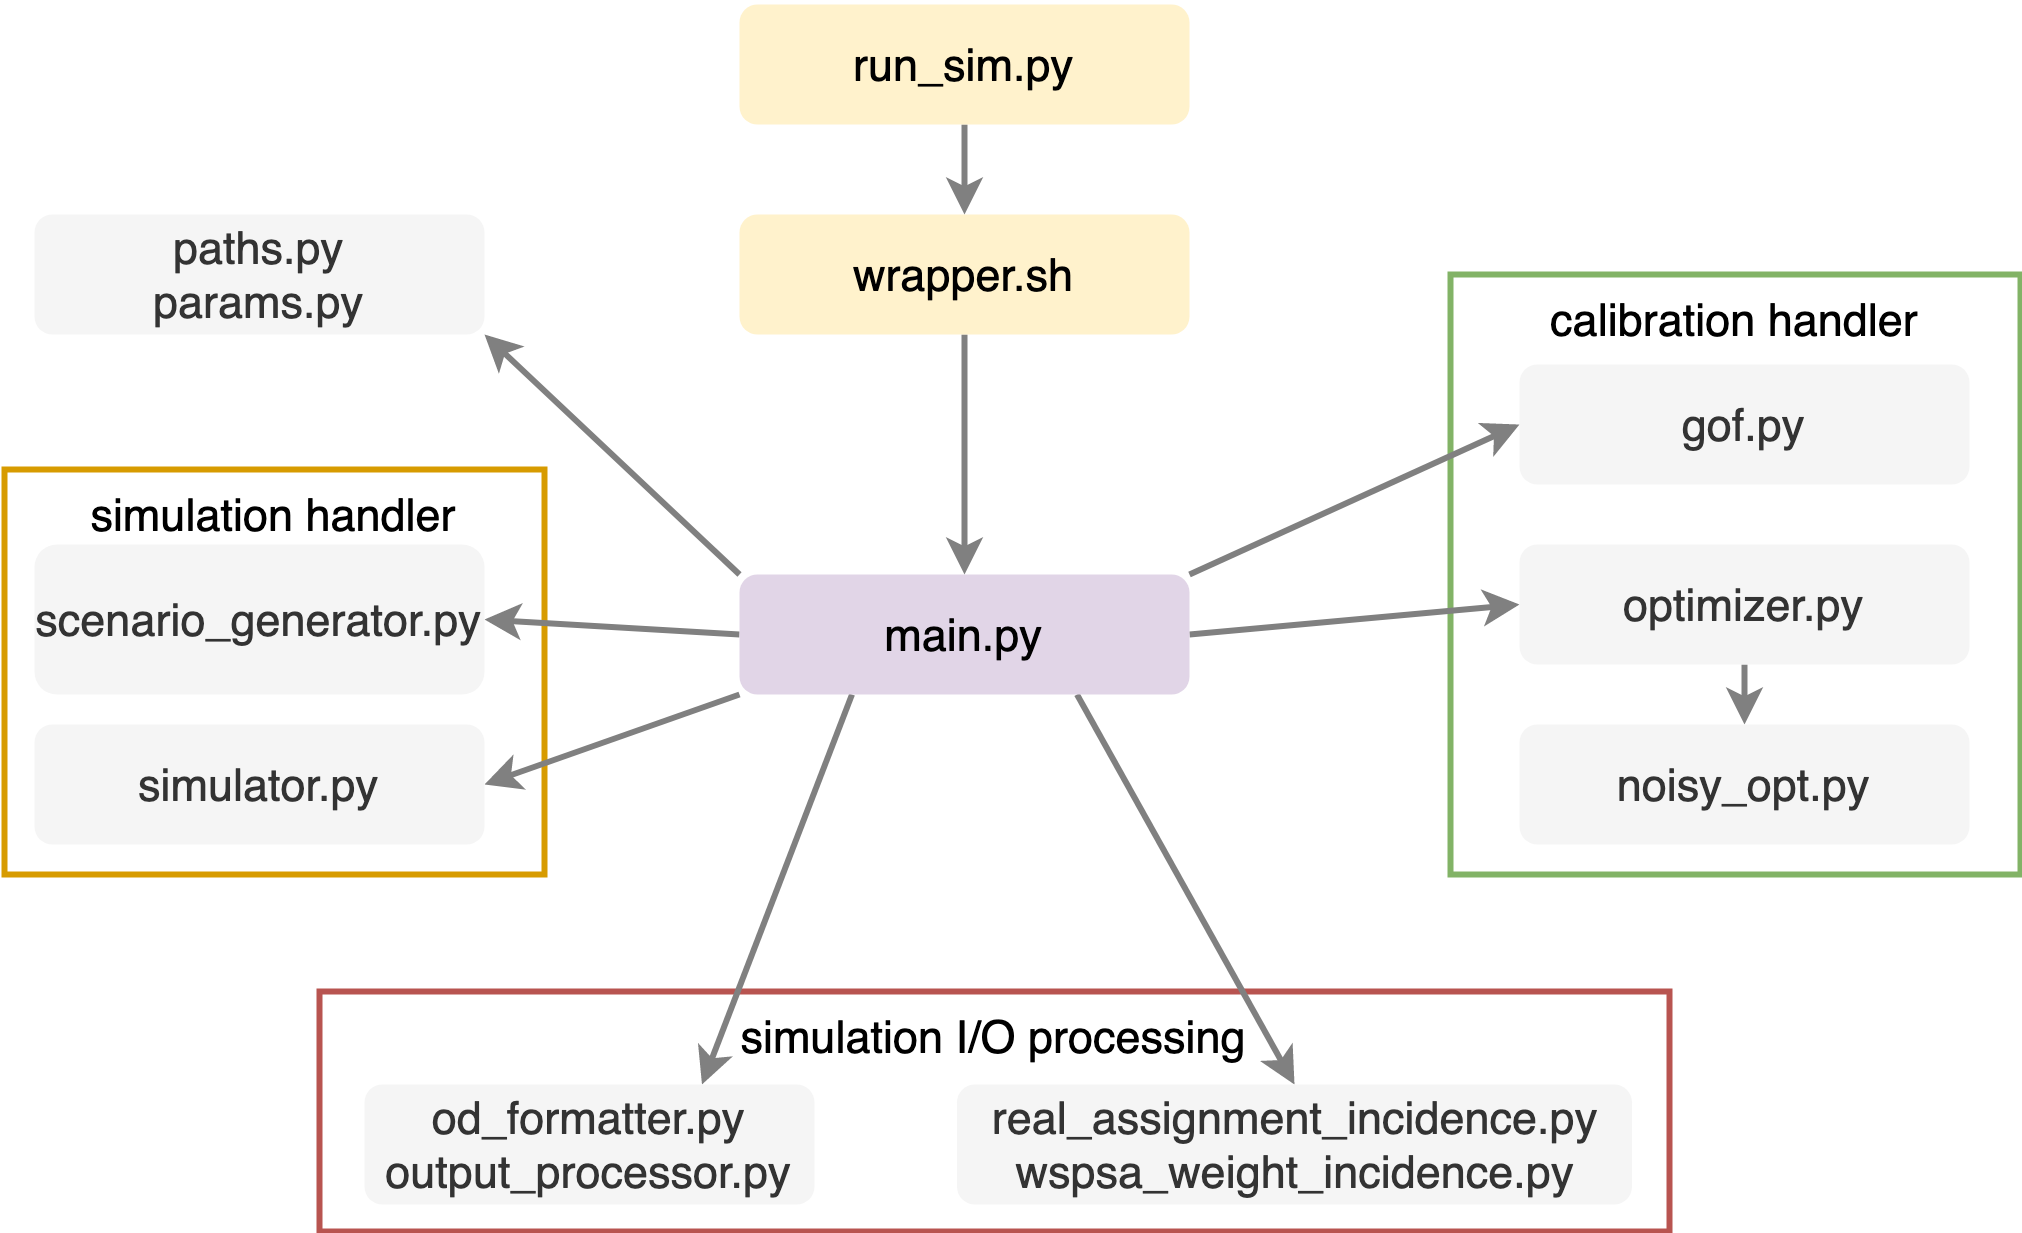
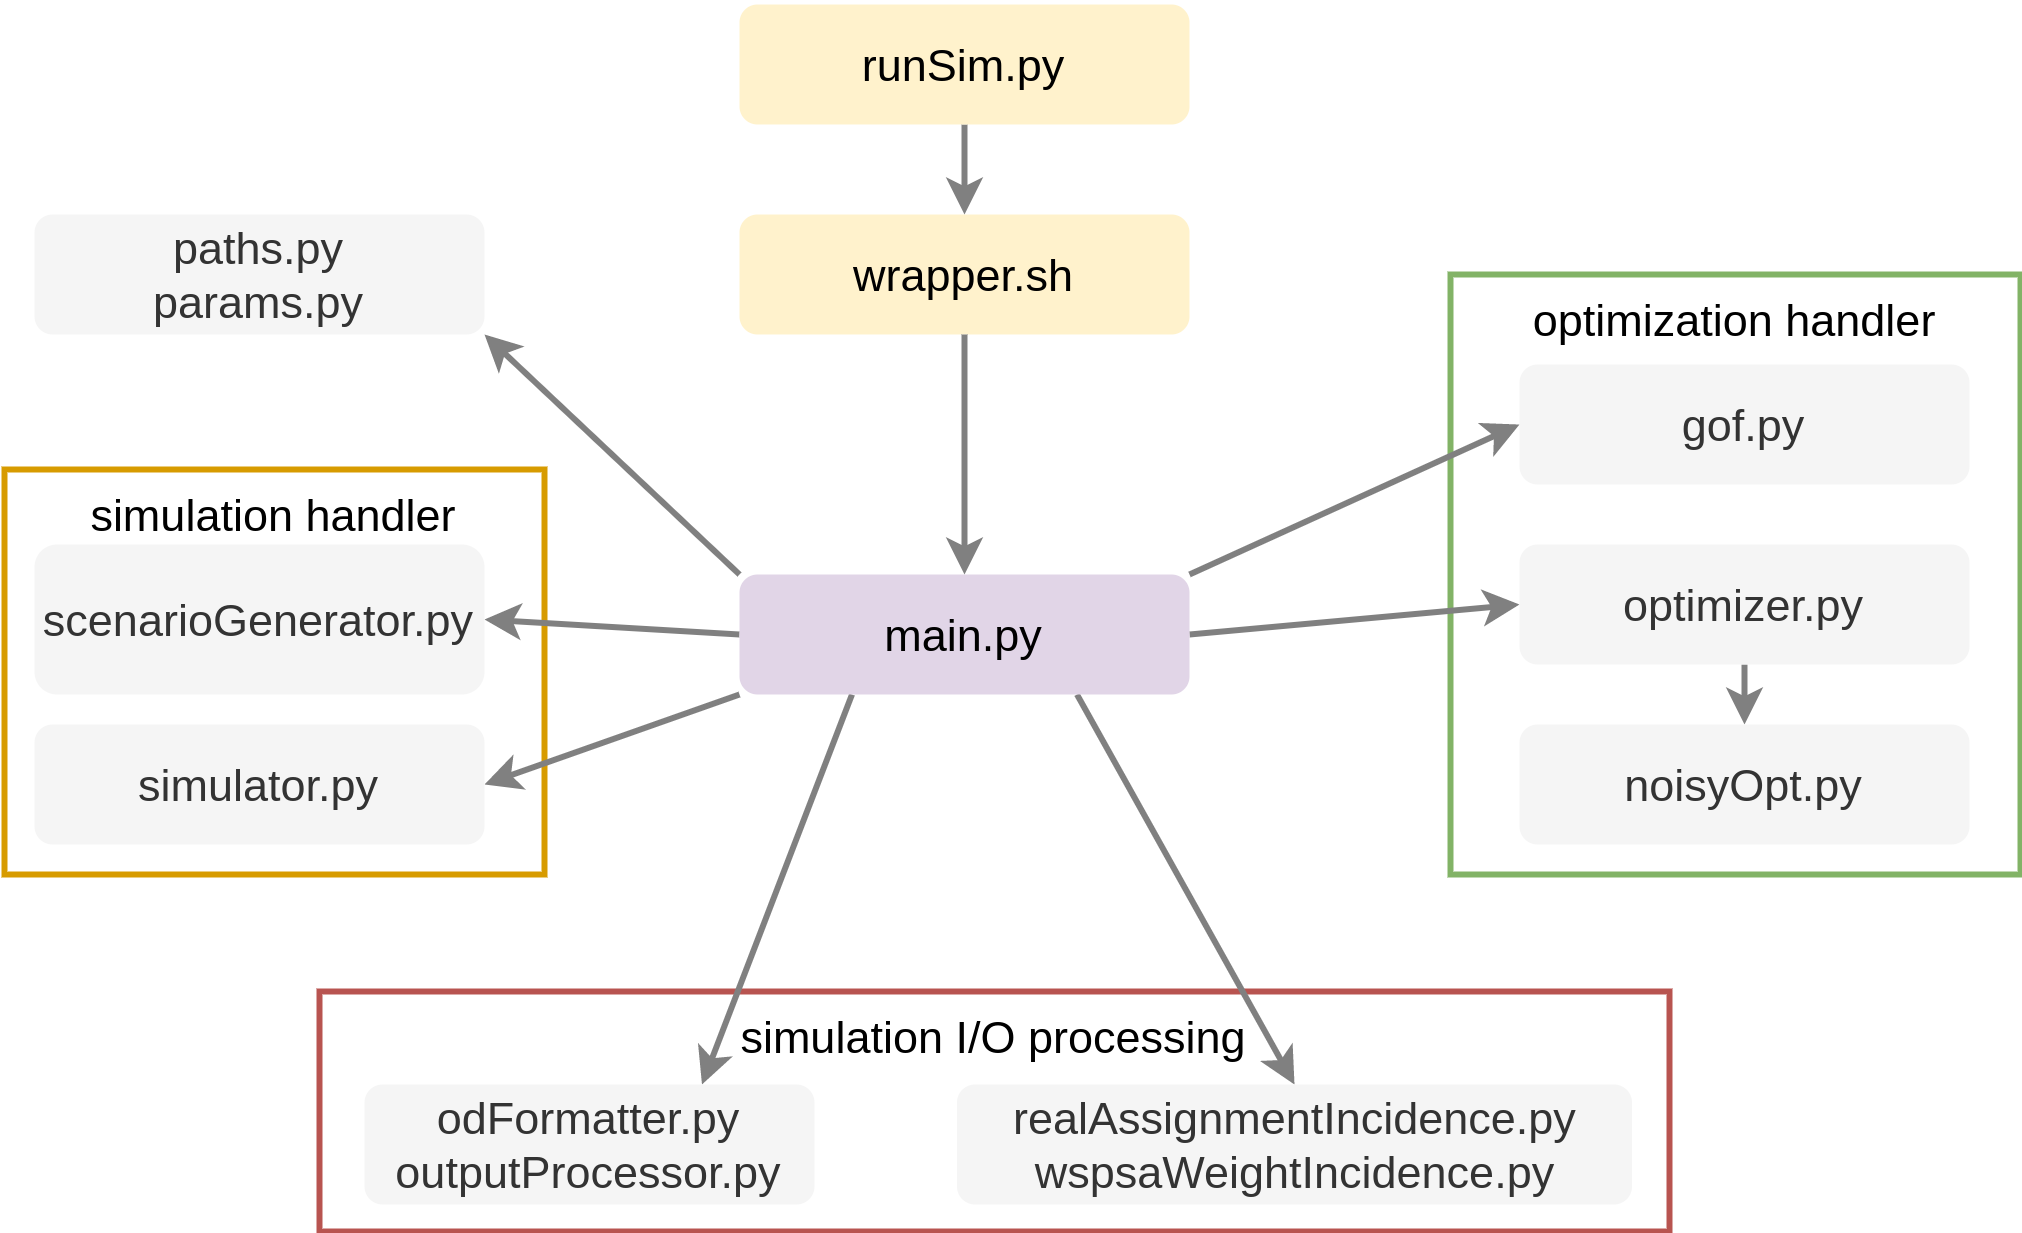
Update readme

diff --git a/README.md b/README.md
@@ -83,11 +83,11 @@ Following procedure for running <b>Analytical or static simulation </b> scenario
 
 * Set the current working director to [src/wrapper](src/wrapper/) in the Command line interface, as above.
 
-* The Python file is the overall wrapper [run_analytical_sim.py](src/wrapper/run_analytical_sim.py), which calls the [synthetic_calibrator.py](src/core/synthetic_calibrator.py).
+* The Python file is the overall wrapper [runAnalyticalSim.py](src/wrapper/runAnalyticalSim.py), which calls the [syntheticCalibrator.py](src/core/syntheticCalibrator.py).
 
 * Run the following in terminal:
 	```sh
-	python run_analytical_sim.py
+	python runAnalyticalSim.py
 	```
 * Outputs are stored in [synthetic_sims](synthetic_sims/) folder
 
@@ -106,9 +106,9 @@ Following procedure for running <b>Black-box or dynamic simulation </b> scenario
 	cd src/wrapper
 	```
 
-* The Python file is the overall wrapper [run_sim.py](src/wrapper/run_sim.py), which calls the secondary wrapper [wrapper.sh](src/wrapper/wrapper.sh). Run the following in terminal:
+* The Python file is the overall wrapper [runSim.py](src/wrapper/runSim.py), which calls the secondary wrapper [wrapper.sh](src/wrapper/wrapper.sh). Run the following in terminal:
 	```sh
-	python run_sim.py munich
+	python runSim.py munich
 	```
 * Outputs are stored in [munich](munich/) folder
 
